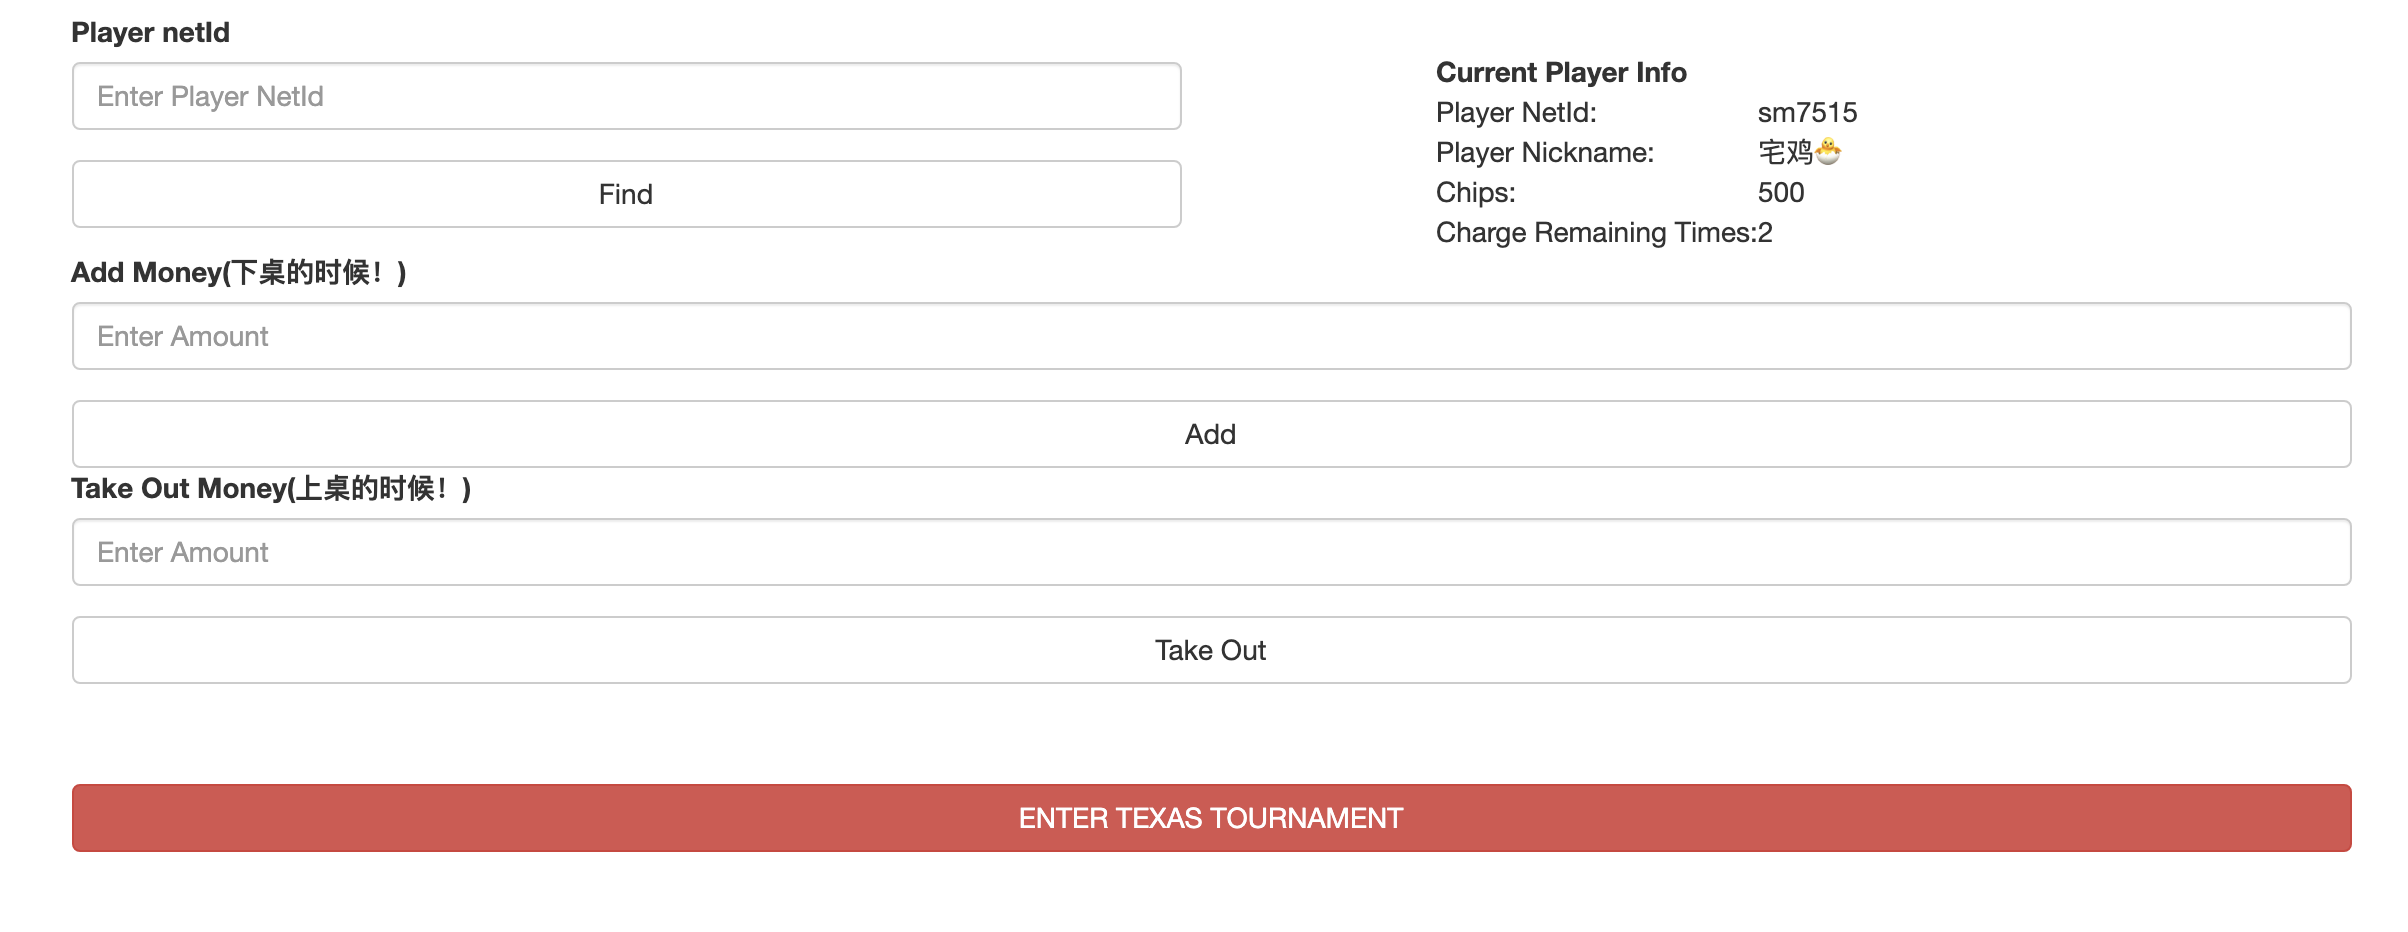
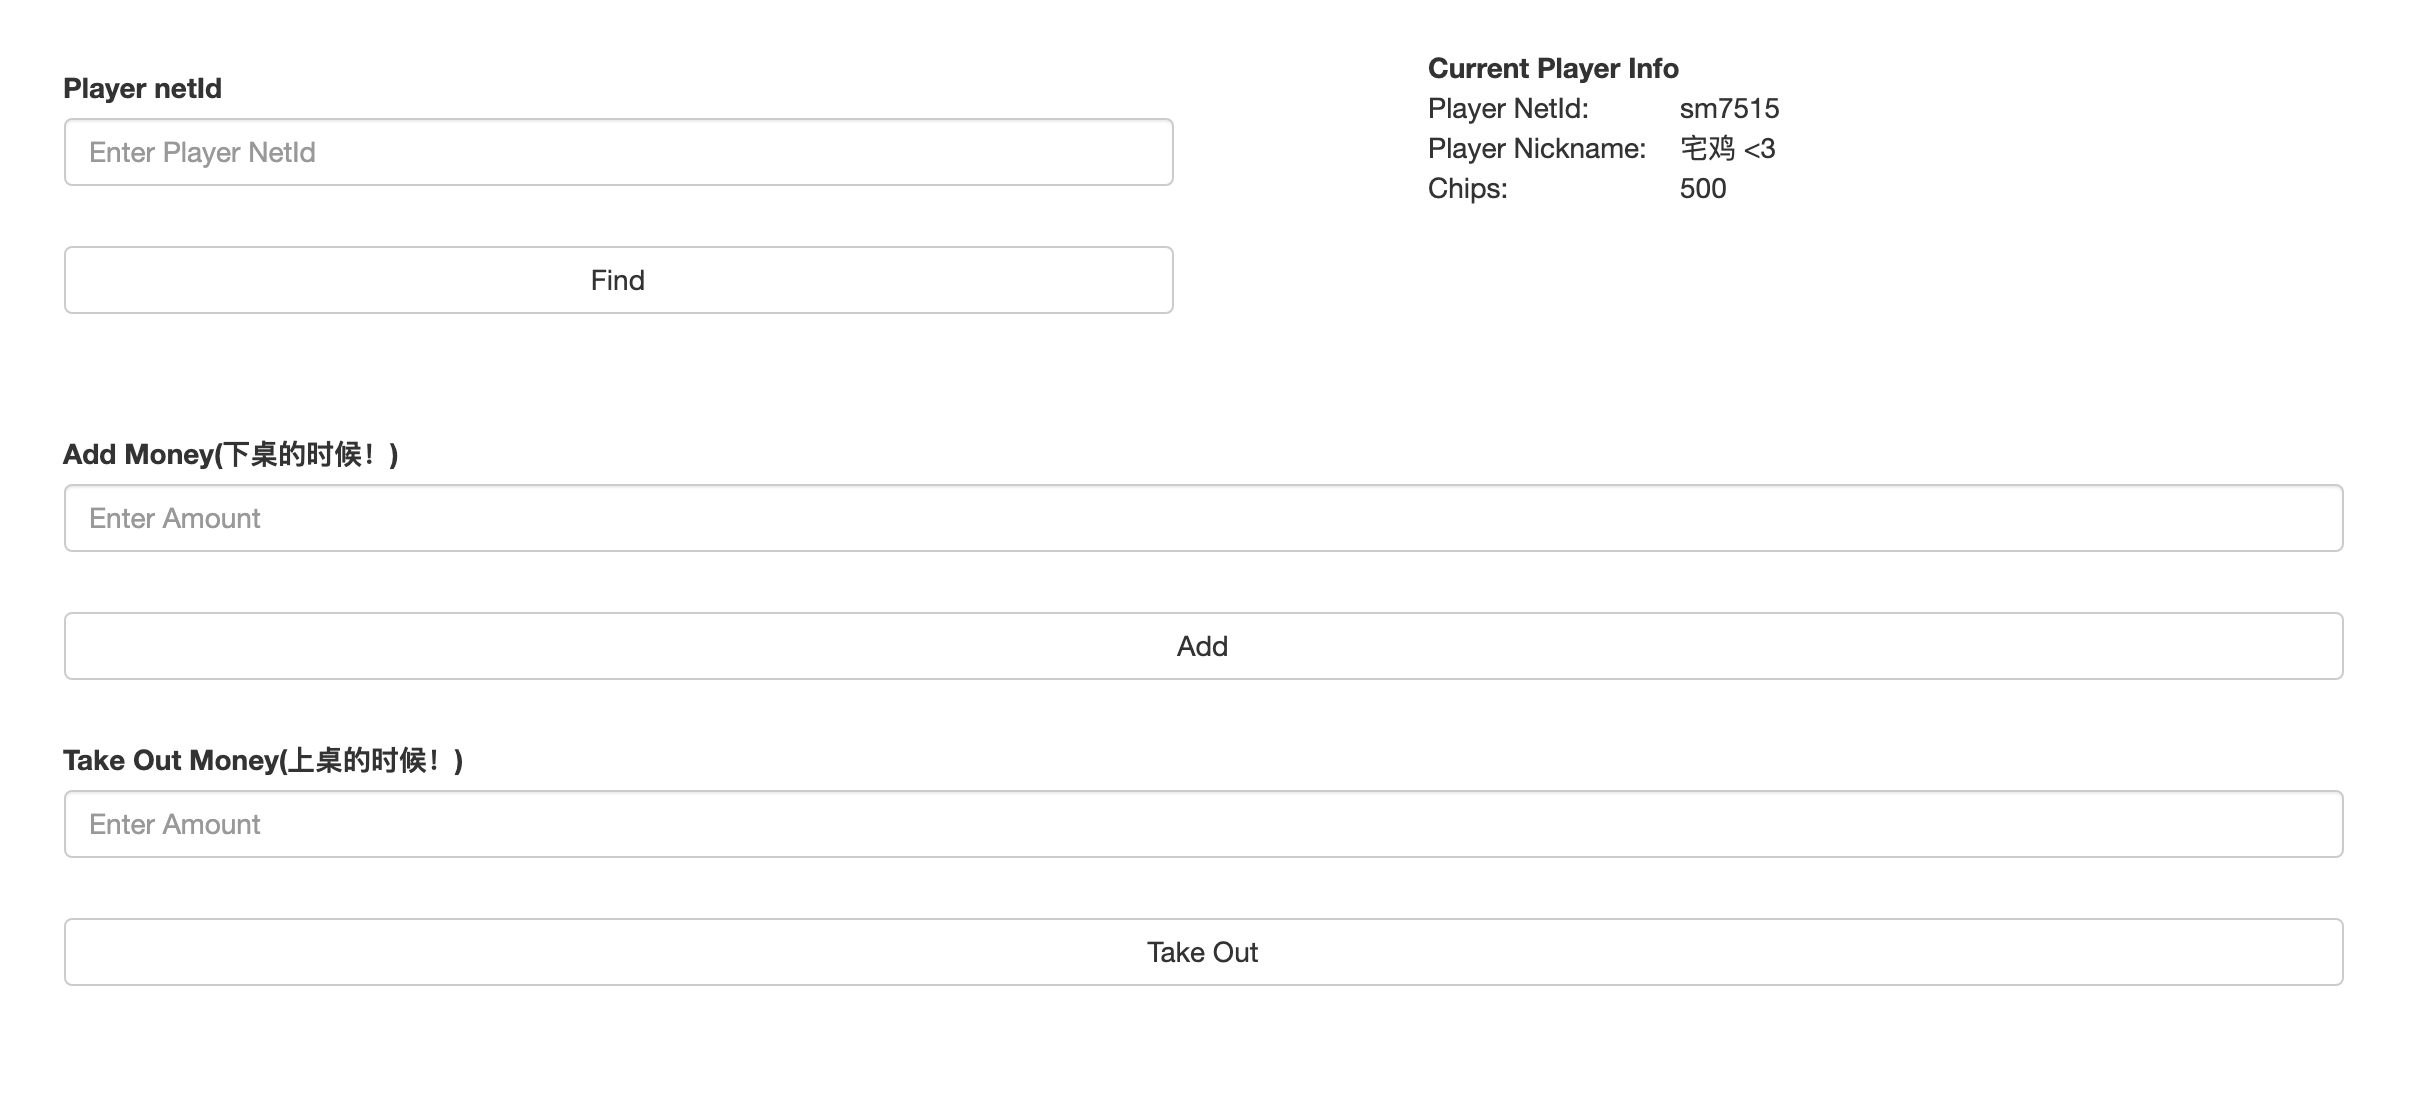
delete tournament, change documentation, add css

diff --git a/app/routes.js b/app/routes.js
@@ -1,7 +1,5 @@
 var Player = require("./models/player");
 
-var tournamentAmount = 0;
-
 module.exports = function (app, passport) {
     app.get('/', function (req, res) {
         res.render('pages/index', {loggedin: req.isAuthenticated()});
@@ -93,7 +91,7 @@ module.exports = function (app, passport) {
                 }
             }) 
         } else {
-            res.render('pages/buyin', { loggedin: req.isAuthenticated(), msg: "No player netId" });
+            res.render('pages/buyin', { loggedin: req.isAuthenticated(), msg: "Please enter player netid" });
         }
     })
 
@@ -125,7 +123,13 @@ module.exports = function (app, passport) {
                         loggedin: req.isAuthenticated(),
                         msg: `player ${uid} already exists. cannot register.`
                     });
-                } else {
+                } else if (nickn===""){
+                    res.render('pages/registration', {
+                        loggedin: req.isAuthenticated(),
+                        msg: `please enter a nickname for player ${uid}.`
+                    });
+                }
+                else {
                     // create a player
                     var player = new Player();
                     player.netId = uid;
@@ -143,7 +147,7 @@ module.exports = function (app, passport) {
                 }
             });
         } else {
-            res.render('pages/registration', {loggedin: req.isAuthenticated(), msg: "No player NetId"});
+            res.render('pages/registration', {loggedin: req.isAuthenticated(), msg: "Please enter player netid"});
         }
     });
 
@@ -164,13 +168,14 @@ module.exports = function (app, passport) {
                         nickname: user.nickname,
                         chips: user.chips,
                         loggedin: true,
+                        msg:""
                     });
                 } else {
-                    res.render('pages/operation', {player: null, loggedin: true});
+                    res.render('pages/operation', { player: null, loggedin: true, msg: "Player not found"});
                 }
             });
         } else {
-            res.render('pages/operation', {player: null, loggedin: true});
+            res.render('pages/operation', { player: null, loggedin: true, msg: ""});
         }
     });
 
@@ -209,7 +214,6 @@ module.exports = function (app, passport) {
     });
 
     app.get("/get_player_score",function(req,res){
-        
        Player.find({}).sort({'chips': -1}).limit(10).exec(function (err, players) {
             if (err) {
                 console.log(err);
@@ -220,22 +224,22 @@ module.exports = function (app, passport) {
         });
     })
 
-    app.post('/entertournament', function (req, res) {
-        var playerId = req.body.uid;
-        console.log(playerId);
-        var query = {'netId': playerId};
-        Player.findOne(query, function (err, user) {
-            if (err) {
-                console.log(err);
-                return;
-            }
-            if (user.chips < 500) {
-                res.redirect('operation?netId=' + playerId + '&message=' + 'this user does not have sufficient chips');
-            } else {
-                res.redirect('operation?netId=' + playerId + '&message=' + 'Successfully enter this user into tournament');
-            }
-        });
-    });
+    // app.post('/entertournament', function (req, res) {
+    //     var playerId = req.body.uid;
+    //     console.log(playerId);
+    //     var query = {'netId': playerId};
+    //     Player.findOne(query, function (err, user) {
+    //         if (err) {
+    //             console.log(err);
+    //             return;
+    //         }
+    //         if (user.chips < 500) {
+    //             res.redirect('operation?netId=' + playerId + '&message=' + 'this user does not have sufficient chips');
+    //         } else {
+    //             res.redirect('operation?netId=' + playerId + '&message=' + 'Successfully enter this user into tournament');
+    //         }
+    //     });
+    // });
 };
 
 // route middleware to make sure a user is logged in

diff --git a/public/stylesheets/main.css b/public/stylesheets/main.css
@@ -42,6 +42,14 @@
   margin-right: auto;
 }
 
+#frmFindPlayer{
+  margin: 30px auto;
+}
+
+.btn.btn-default.btn-block{
+  margin: 30px auto;
+}
+
 /*.indexBody{
   background-color: '#111'
 }*/
